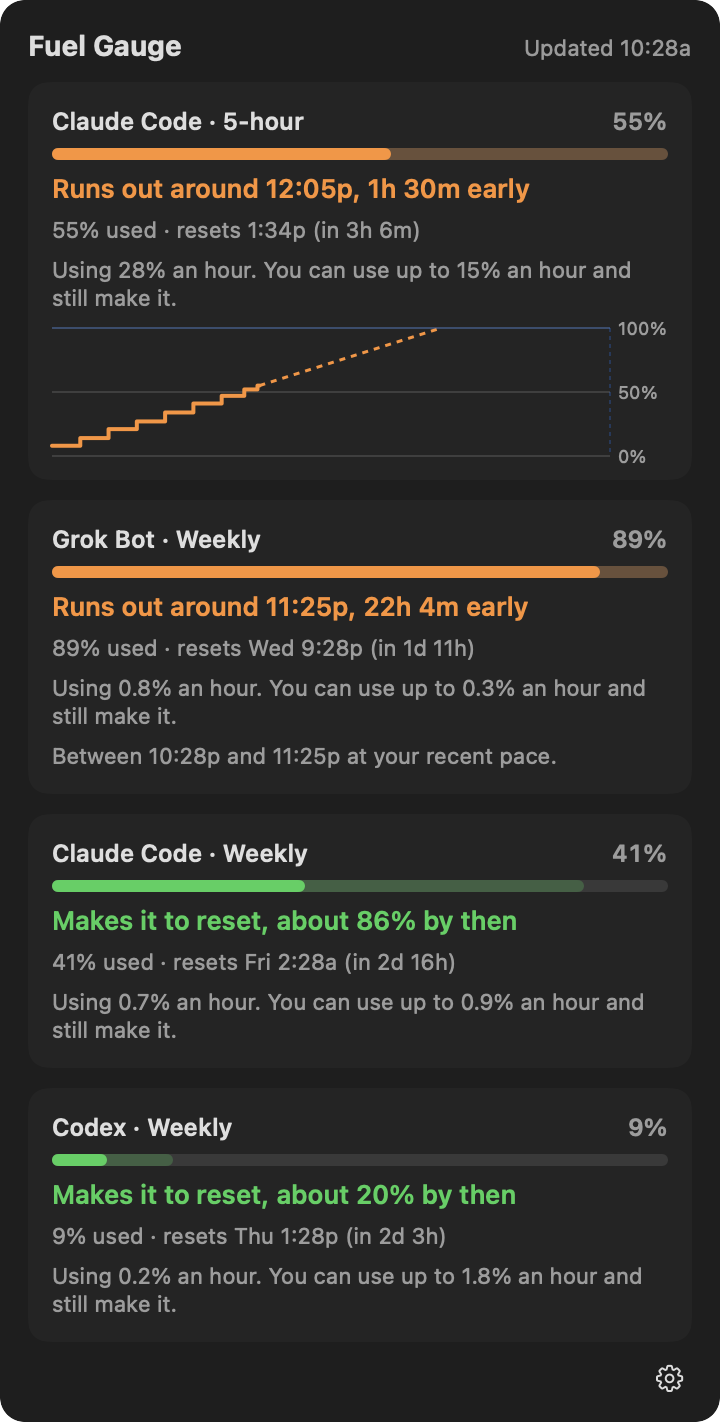
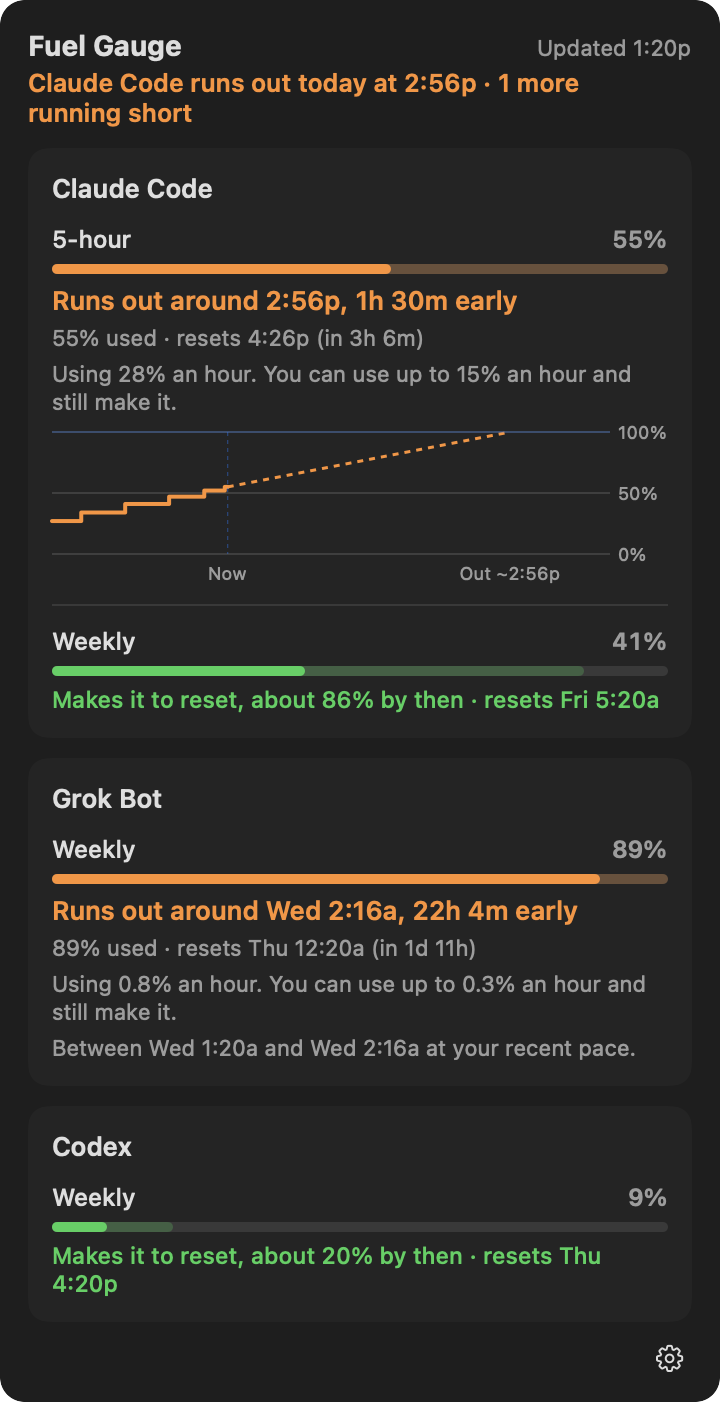
Show the redesigned panel in the README

diff --git a/README.md b/README.md
@@ -24,7 +24,7 @@ It's free, the source is on GitHub, and your usage never leaves your Mac.
 <p align="center">
   <picture>
     <source media="(prefers-color-scheme: dark)" srcset=".github/images/panel-dark.png">
-    <img src=".github/images/panel-light.png" width="380" alt="The Fuel Gauge panel. Claude Code 5-hour at 55%: runs out around 12:05p, 1h 30m early, using 28% an hour when 15% an hour would make it, with a chart of usage and a dashed line to 100%. Grok Bot weekly at 89%: runs out 22 hours early. Claude Code weekly at 41% and Codex weekly at 9%: makes it to reset.">
+    <img src=".github/images/panel-light.png" width="380" alt="The Fuel Gauge panel. Summary: Claude Code runs out today at 2:56p, 1 more running short. Claude Code card: 5-hour at 55%, runs out around 2:56p, 1h 30m early, with a chart from now to the run-out; weekly at 41%, makes it to reset. Grok Bot weekly at 89%, runs out early. Codex weekly at 9%, makes it.">
   </picture>
 </p>
 
